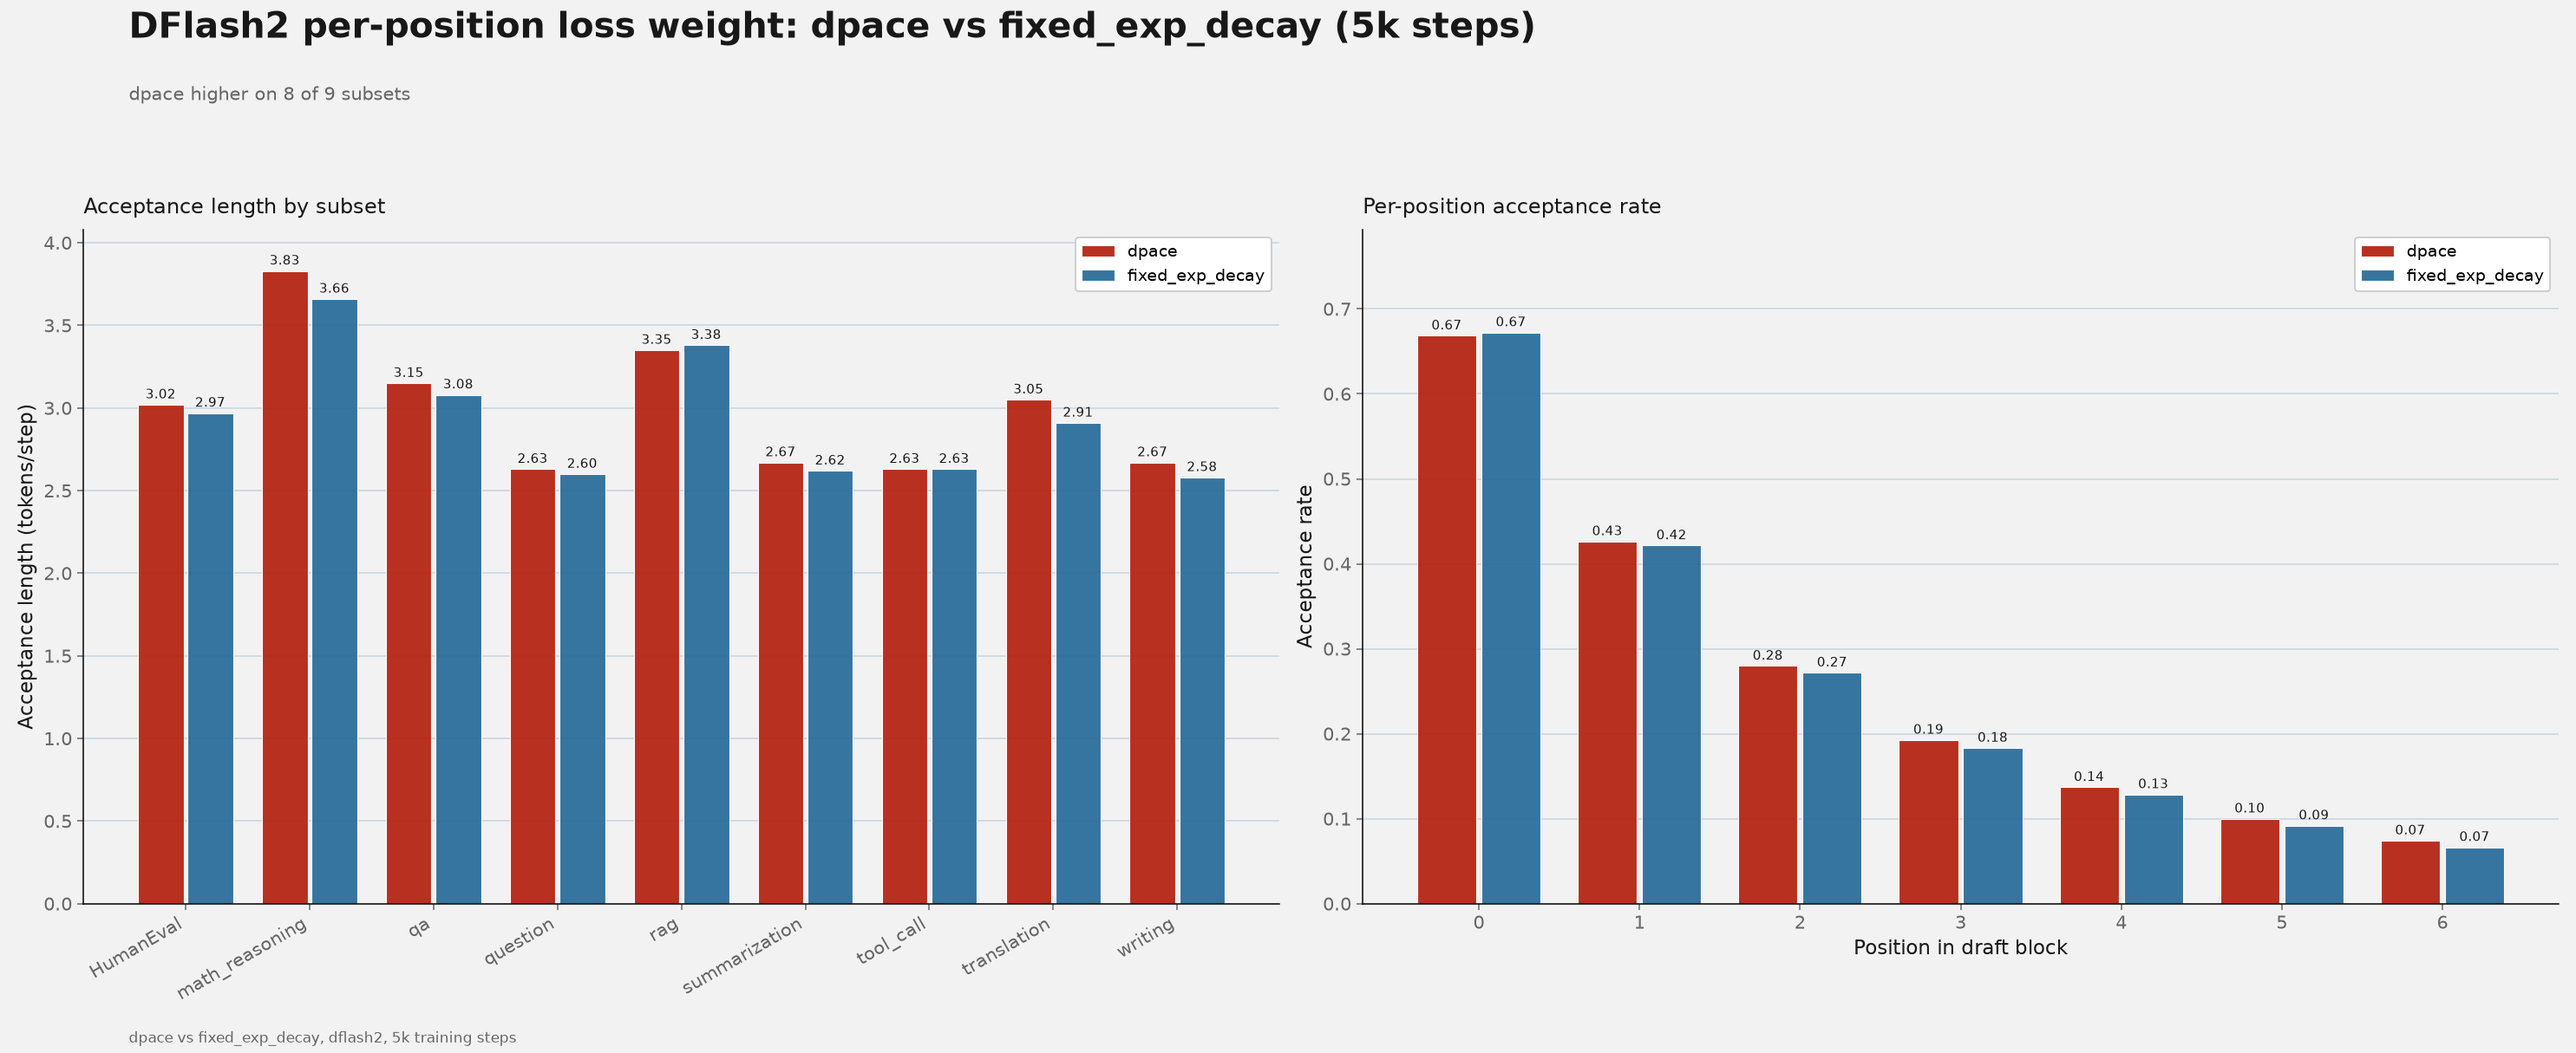
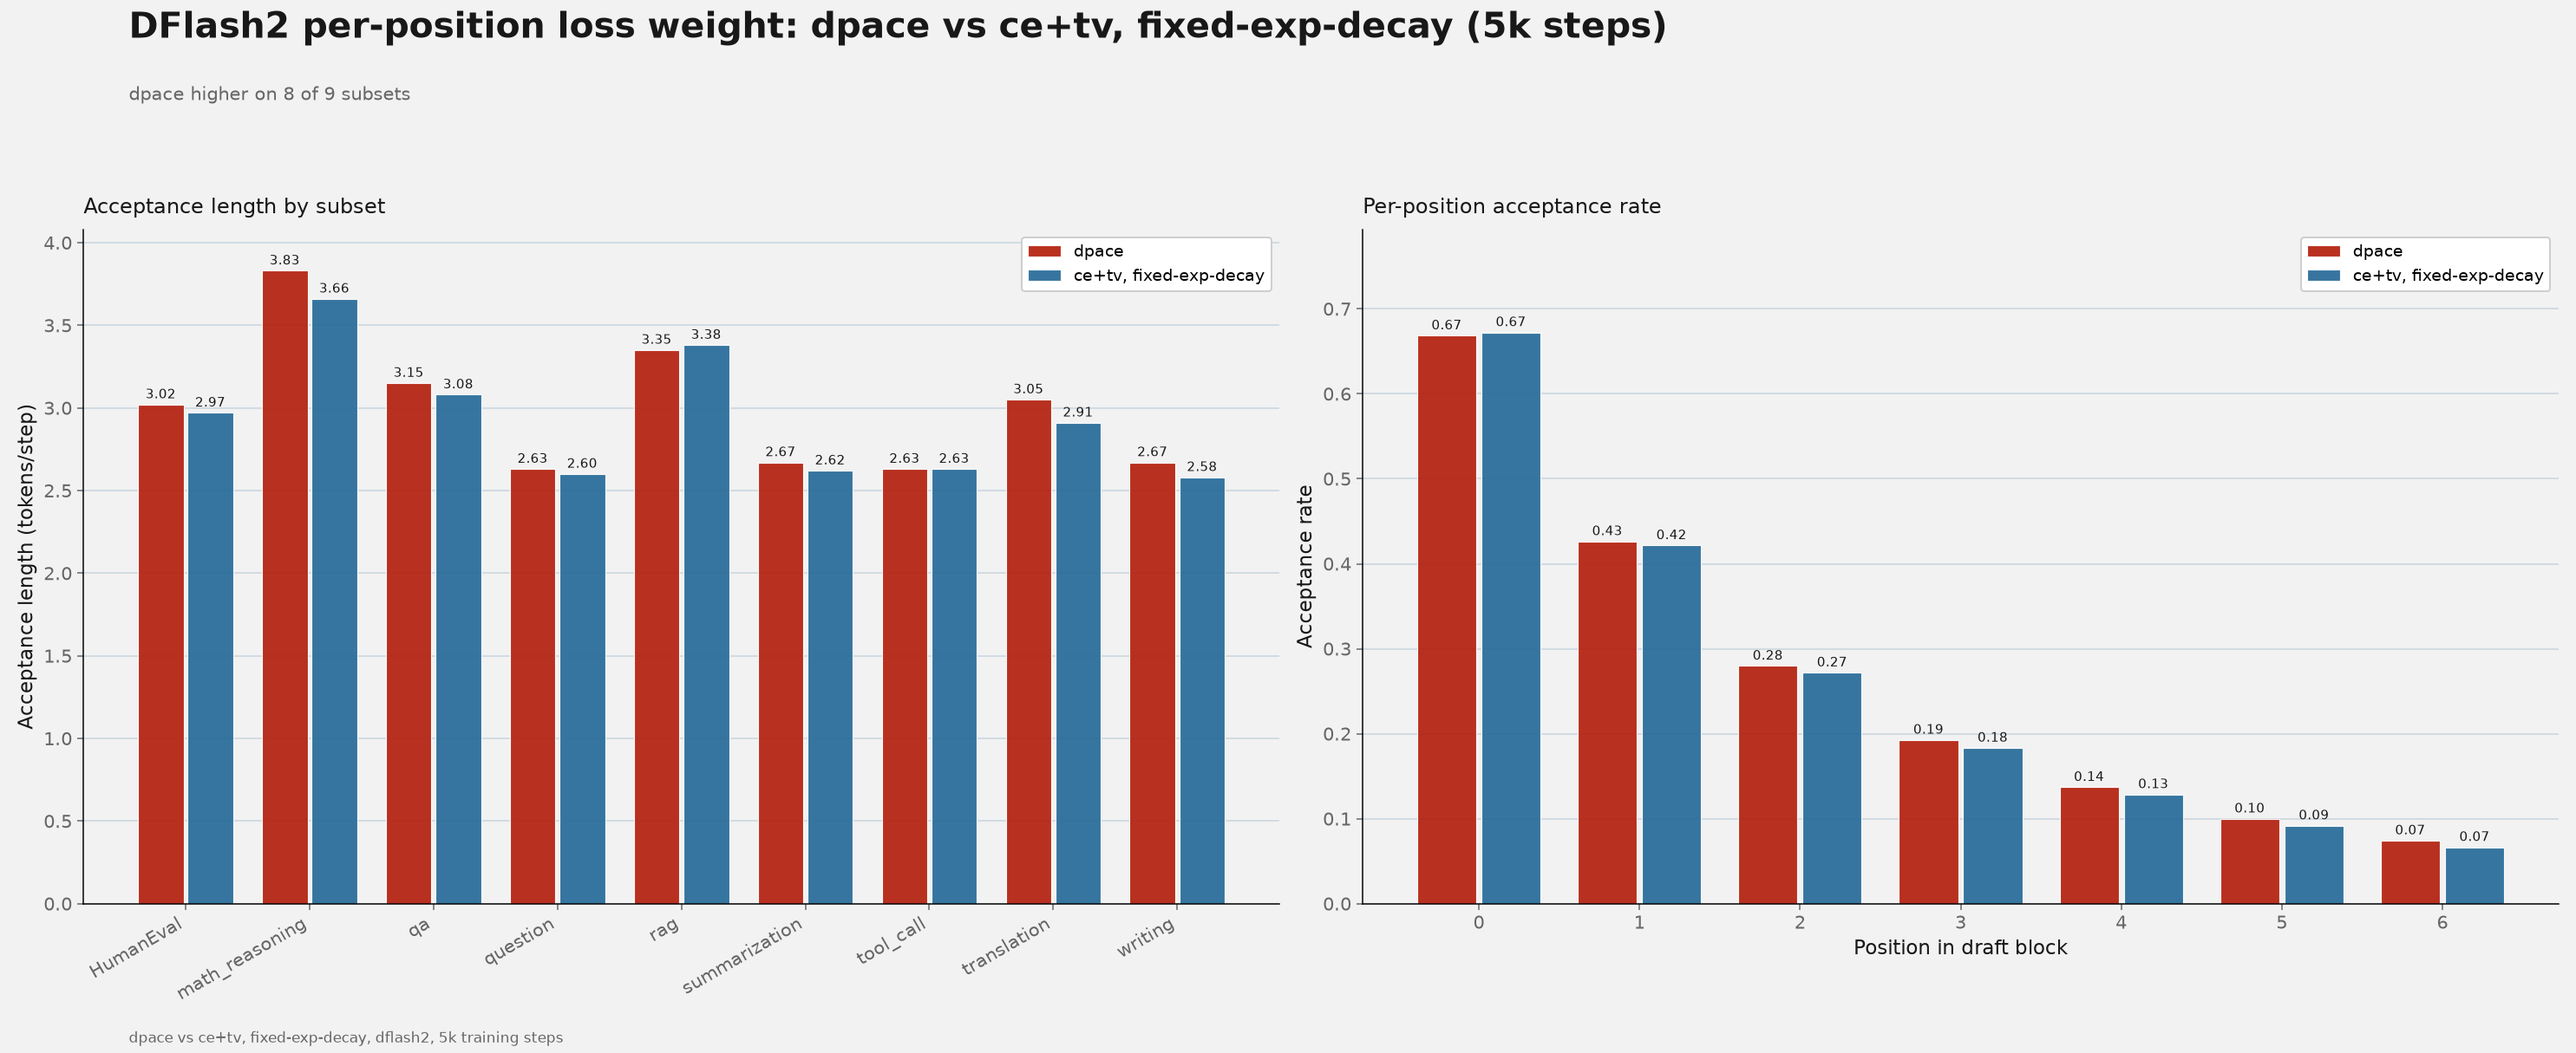
Rename not-dpace arm to ce+tv, fixed-exp-decay to reflect actual recipe

diff --git a/docs/research/dflash2-selector-and-loss-normalization-ablation-shubhra.md b/docs/research/dflash2-selector-and-loss-normalization-ablation-shubhra.md
@@ -39,13 +39,13 @@ The strict selector miss policy is implemented in [Speculators PR #1217](https:/
 
 ## Results
 
-### Per-position loss weight: dpace versus fixed-exp-decay
+### Per-position loss weight: dpace versus ce+tv, fixed-exp-decay
 
-`dpace` is a confidence-based per-position loss weight: it converts the per-position cross-entropy loss to a confidence score, smooths it with a constant `dpace_alpha` (default 0.5), and combines positions within a block via a cumulative-product/suffix-sum to produce the final per-position weight. The alternative, `fixed-exp-decay`, weights positions by a fixed exponential decay independent of model confidence; it is DFlash2's and DSpark's default. This ablation was run for both DFlash2 and DSpark, at 5k and 25k training steps each. Absolute acceptance length is lower at 5k than at 25k across all four configurations below, consistent with less training; compare `dpace` against `fixed-exp-decay` within each step count instead of across them.
+`dpace` is a confidence-based per-position loss weight: it converts the per-position cross-entropy loss to a confidence score, smooths it with a constant `dpace_alpha` (default 0.5), and combines positions within a block via a cumulative-product/suffix-sum to produce the final per-position weight. The comparison arm uses a `{"ce":0.1,"tv":0.9}` loss function with `fixed-exp-decay` per-position weighting (a fixed exponential decay by position, independent of model confidence; `fixed-exp-decay` is DFlash2's and DSpark's default per-position weight). This ablation was run for both DFlash2 and DSpark, at 5k and 25k training steps each. Absolute acceptance length is lower at 5k than at 25k across all four configurations below, consistent with less training; compare `dpace` against `ce+tv, fixed-exp-decay` within each step count instead of across them.
 
 #### 25k training steps, DFlash2
 
-| Subset | dpace | fixed-exp-decay | dpace − fixed-exp-decay |
+| Subset | dpace | ce+tv, fixed-exp-decay | dpace − ce+tv, fixed-exp-decay |
 |---|---:|---:|---:|
 | HumanEval | 3.32 | 3.27 | +0.05 |
 | math_reasoning | 4.05 | 4.00 | +0.05 |
@@ -57,13 +57,13 @@ The strict selector miss policy is implemented in [Speculators PR #1217](https:/
 | translation | 3.36 | 3.32 | +0.04 |
 | writing | 2.84 | 2.88 | −0.05 |
 
-Mixed: `dpace` is higher on six subsets, lower on three. Mean acceptance length is approximately 3.26 for `dpace` and 3.24 for `fixed-exp-decay`.
+Mixed: `dpace` is higher on six subsets, lower on three. Mean acceptance length is approximately 3.26 for `dpace` and 3.24 for `ce+tv, fixed-exp-decay`.
 
-![DFlash2 per-position loss weight, dpace vs fixed-exp-decay, 25k training steps: acceptance length by subset and per-position acceptance rate](../assets/research/dflash2_dpace_25k_dflash2.png)
+![DFlash2 per-position loss weight, dpace vs ce+tv, fixed-exp-decay, 25k training steps: acceptance length by subset and per-position acceptance rate](../assets/research/dflash2_dpace_25k_dflash2.png)
 
 #### 25k training steps, DSpark
 
-| Subset | dpace | fixed-exp-decay | dpace − fixed-exp-decay |
+| Subset | dpace | ce+tv, fixed-exp-decay | dpace − ce+tv, fixed-exp-decay |
 |---|---:|---:|---:|
 | HumanEval | 3.28 | 3.44 | −0.17 |
 | math_reasoning | 4.13 | 4.25 | −0.13 |
@@ -75,13 +75,13 @@ Mixed: `dpace` is higher on six subsets, lower on three. Mean acceptance length 
 | translation | 3.35 | 3.42 | −0.06 |
 | writing | 2.93 | 2.98 | −0.05 |
 
-`fixed-exp-decay` is higher on all nine subsets for DSpark at 25k steps. Mean acceptance length is approximately 3.29 for `dpace` and 3.39 for `fixed-exp-decay`.
+`ce+tv, fixed-exp-decay` is higher on all nine subsets for DSpark at 25k steps. Mean acceptance length is approximately 3.29 for `dpace` and 3.39 for `ce+tv, fixed-exp-decay`.
 
-![DSpark per-position loss weight, dpace vs fixed-exp-decay, 25k training steps: acceptance length by subset and per-position acceptance rate](../assets/research/dflash2_dpace_25k_dspark.png)
+![DSpark per-position loss weight, dpace vs ce+tv, fixed-exp-decay, 25k training steps: acceptance length by subset and per-position acceptance rate](../assets/research/dflash2_dpace_25k_dspark.png)
 
 #### 5k training steps, DFlash2
 
-| Subset | dpace | fixed-exp-decay | dpace − fixed-exp-decay |
+| Subset | dpace | ce+tv, fixed-exp-decay | dpace − ce+tv, fixed-exp-decay |
 |---|---:|---:|---:|
 | HumanEval | 3.02 | 2.97 | +0.05 |
 | math_reasoning | 3.83 | 3.66 | +0.17 |
@@ -93,13 +93,13 @@ Mixed: `dpace` is higher on six subsets, lower on three. Mean acceptance length 
 | translation | 3.05 | 2.91 | +0.14 |
 | writing | 2.67 | 2.58 | +0.09 |
 
-`dpace` is higher on eight of nine subsets for DFlash2 at 5k steps. Mean acceptance length is approximately 3.00 for `dpace` and 2.94 for `fixed-exp-decay`.
+`dpace` is higher on eight of nine subsets for DFlash2 at 5k steps. Mean acceptance length is approximately 3.00 for `dpace` and 2.94 for `ce+tv, fixed-exp-decay`.
 
-![DFlash2 per-position loss weight, dpace vs fixed-exp-decay, 5k training steps: acceptance length by subset and per-position acceptance rate](../assets/research/dflash2_dpace_5k_dflash2.png)
+![DFlash2 per-position loss weight, dpace vs ce+tv, fixed-exp-decay, 5k training steps: acceptance length by subset and per-position acceptance rate](../assets/research/dflash2_dpace_5k_dflash2.png)
 
 #### 5k training steps, DSpark
 
-| Subset | dpace | fixed-exp-decay | dpace − fixed-exp-decay |
+| Subset | dpace | ce+tv, fixed-exp-decay | dpace − ce+tv, fixed-exp-decay |
 |---|---:|---:|---:|
 | HumanEval | 3.05 | 3.12 | −0.07 |
 | math_reasoning | 3.79 | 3.80 | −0.00 |
@@ -111,11 +111,11 @@ Mixed: `dpace` is higher on six subsets, lower on three. Mean acceptance length 
 | translation | 2.84 | 2.88 | −0.04 |
 | writing | 2.65 | 2.72 | −0.06 |
 
-`fixed-exp-decay` is higher on seven of nine subsets for DSpark at 5k steps. Mean acceptance length is approximately 2.94 for `dpace` and 3.00 for `fixed-exp-decay`.
+`ce+tv, fixed-exp-decay` is higher on seven of nine subsets for DSpark at 5k steps. Mean acceptance length is approximately 2.94 for `dpace` and 3.00 for `ce+tv, fixed-exp-decay`.
 
-![DSpark per-position loss weight, dpace vs fixed-exp-decay, 5k training steps: acceptance length by subset and per-position acceptance rate](../assets/research/dflash2_dpace_5k_dspark.png)
+![DSpark per-position loss weight, dpace vs ce+tv, fixed-exp-decay, 5k training steps: acceptance length by subset and per-position acceptance rate](../assets/research/dflash2_dpace_5k_dspark.png)
 
-Across both step counts, `dpace` is at best mixed for DFlash2 and consistently worse than `fixed-exp-decay` for DSpark. `fixed-exp-decay` remains the default per-position loss weight for both architectures; these ablations did not surface a clear case for switching DFlash2 to `dpace`.
+Across both step counts, `dpace` is at best mixed for DFlash2 and consistently worse than `ce+tv, fixed-exp-decay` for DSpark. `fixed-exp-decay` remains the default per-position loss weight for both architectures; these ablations did not surface a clear case for switching DFlash2 to `dpace`.
 
 ### Strict versus replace selector policy
 
